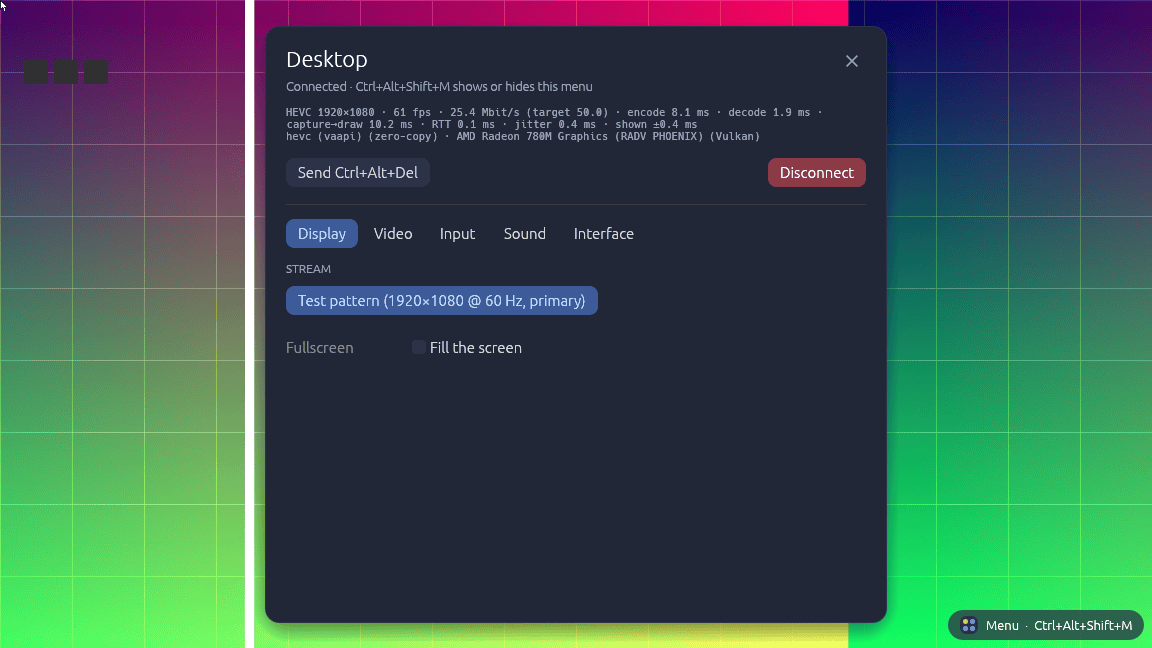
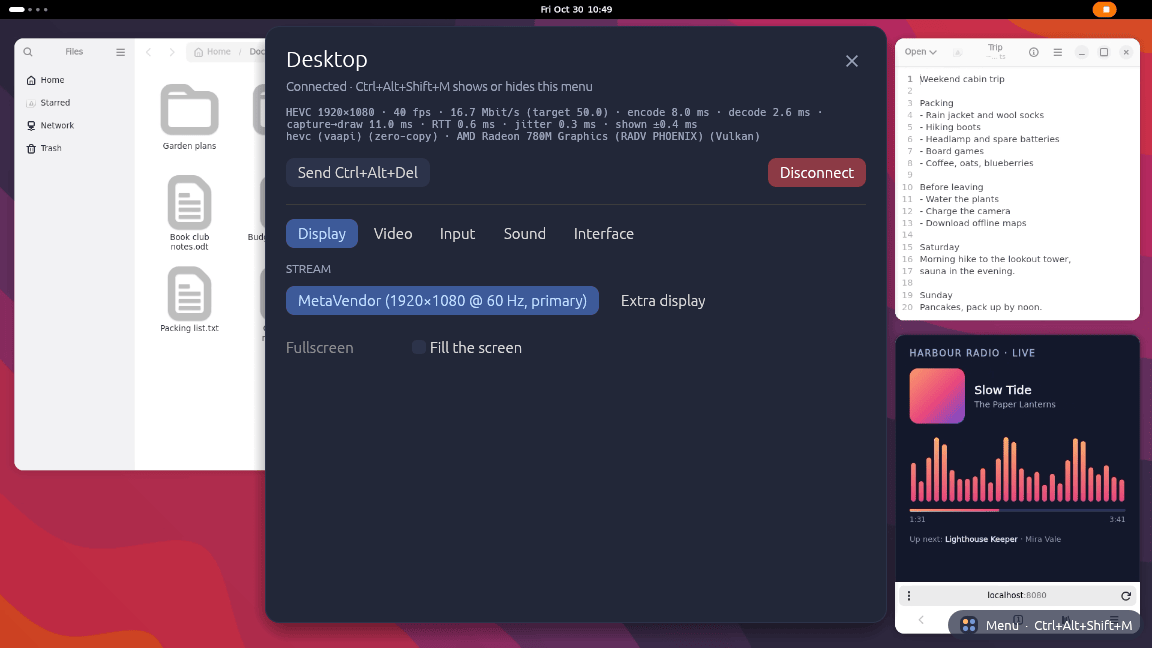
docs: show a GNOME desktop behind the session menu screenshot
Captured from a headless GNOME Shell host with a throwaway home (file
manager, text editor and a local web page) instead of the test pattern.

diff --git a/README.md b/README.md
@@ -10,7 +10,7 @@ display, and the client, which connects to one.
 
 ![The start window with three paired computers, two online and one offline](docs/screenshots/launcher.png)
 
-![The menu during a session, over the host's test pattern, with the live statistics and display settings](docs/screenshots/session-menu.png)
+![The menu during a session with a GNOME desktop: a file manager, a text editor and a web radio page behind it, with the live statistics and display settings](docs/screenshots/session-menu.png)
 
 ## What it does
 
